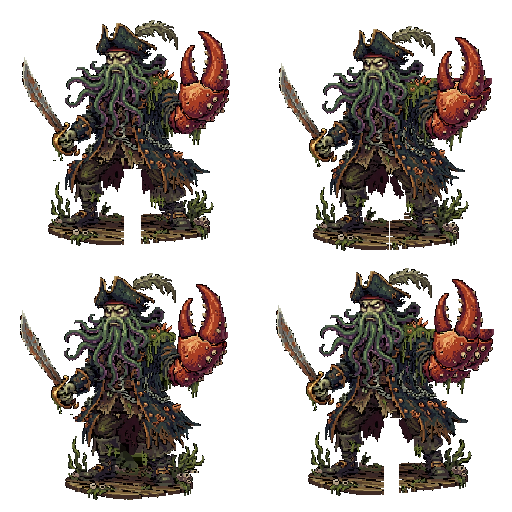
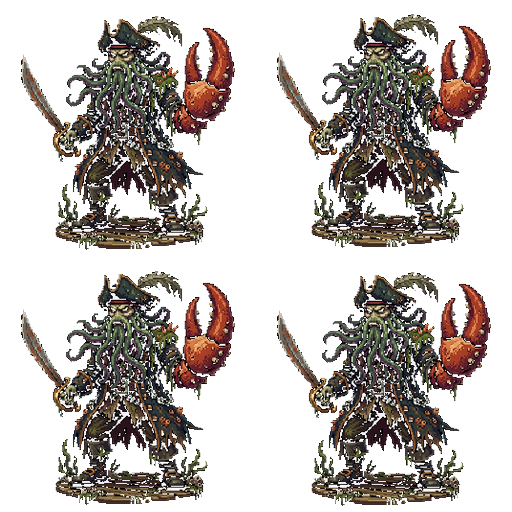
fix(bosses): restaurar y limpiar assets de bosses con siluetas solidas sin cortes artificiales

diff --git a/test/features/progression/progression_screen_test.dart b/test/features/progression/progression_screen_test.dart
@@ -50,12 +50,11 @@ void main() {
       );
       await tester.pumpAndSettle();
 
-      expect(find.text('Progresión del personaje'), findsOneWidget);
-      expect(find.text('Maestría 30/30'), findsOneWidget);
-      expect(find.textContaining('guardadas'), findsOneWidget);
-      expect(find.text('Velocidad'), findsOneWidget);
+      expect(find.text('MONEDAS'), findsWidgets);
+      expect(find.text('MAESTRÍA LVL 30'), findsOneWidget);
+      expect(find.text('VELOCIDAD'), findsOneWidget);
 
-      final firstUpgrade = find.text('Comprar por 200').first;
+      final firstUpgrade = find.text('200').first;
       await tester.ensureVisible(firstUpgrade);
       await tester.pumpAndSettle();
       await tester.tap(firstUpgrade);
@@ -63,24 +62,24 @@ void main() {
       expect(repository.upgradePurchases, 1);
       expect(find.textContaining('avanzó al rango 1'), findsOneWidget);
 
-      await tester.tap(find.text('Habilidades'));
+      await tester.tap(find.text('HABILIDADES').first);
       await tester.pumpAndSettle();
-      expect(find.text('Bala de rebote'), findsOneWidget);
+      expect(find.text('BALA DE REBOTE'), findsOneWidget);
       await tester.drag(find.byType(ListView).last, const Offset(0, -420));
       await tester.pumpAndSettle();
-      expect(find.text('Protocolo ráfaga'), findsOneWidget);
+      expect(find.text('PROTOCOLO RÁFAGA'), findsOneWidget);
       await tester.drag(find.byType(ListView).last, const Offset(0, -420));
       await tester.pumpAndSettle();
-      expect(find.text('Desenfunde'), findsOneWidget);
+      expect(find.text('DESENFUNDE'), findsOneWidget);
       await tester.drag(find.byType(ListView).last, const Offset(0, -420));
       await tester.pumpAndSettle();
-      expect(find.text('Mira oportunista'), findsOneWidget);
+      expect(find.text('MIRA OPORTUNISTA'), findsOneWidget);
 
-      await tester.tap(find.text('Paletas'));
+      await tester.tap(find.text('PALETAS').first);
       await tester.pumpAndSettle();
-      expect(find.text('Original'), findsOneWidget);
-      expect(find.text('Aurora'), findsOneWidget);
-      expect(find.text('Eclipse'), findsOneWidget);
+      expect(find.text('ORIGINAL'), findsOneWidget);
+      expect(find.text('AURORA'), findsOneWidget);
+      expect(find.text('ECLIPSE'), findsOneWidget);
     },
   );
 
@@ -125,27 +124,18 @@ void main() {
 
       // Verify no overflow occurred and elements are rendered properly
       expect(tester.takeException(), isNull);
-      expect(find.text('Progresión del personaje'), findsOneWidget);
-      expect(find.text('Maestría 30/30'), findsOneWidget);
-      expect(find.textContaining('guardadas'), findsOneWidget);
+      expect(find.text('MONEDAS'), findsWidgets);
+      expect(find.text('MAESTRÍA LVL 30'), findsOneWidget);
 
       // Verify tabs are reachable and interactive in landscape
-      expect(find.text('Mejoras'), findsOneWidget);
-      expect(find.text('Habilidades'), findsOneWidget);
-      expect(find.text('Paletas'), findsOneWidget);
+      expect(find.text('MEJORAS'), findsWidgets);
+      expect(find.text('HABILIDADES'), findsWidgets);
+      expect(find.text('PALETAS'), findsWidgets);
 
       // Test tapping tabs
-      await tester.tap(find.text('Habilidades'));
+      await tester.tap(find.text('HABILIDADES').first);
       await tester.pumpAndSettle();
-      expect(find.text('Identidad innata'), findsOneWidget);
-
-      // Test expanding summary details in compact height
-      final toggleButton = find.byTooltip('Ver detalles');
-      expect(toggleButton, findsOneWidget);
-      await tester.tap(toggleButton);
-      await tester.pumpAndSettle();
-      expect(tester.takeException(), isNull);
-      expect(find.byTooltip('Ocultar detalles'), findsOneWidget);
+      expect(find.textContaining('Habilidad innata'), findsOneWidget);
     },
   );
 }

diff --git a/lib/features/progression/presentation/progression_screen.dart b/lib/features/progression/presentation/progression_screen.dart
@@ -343,12 +343,9 @@ class _CharacterSelector extends StatelessWidget {
                 value: character,
                 child: Row(
                   children: [
-                    SizedBox(
-                      width: isCompact ? 22 : 26,
-                      height: isCompact ? 22 : 26,
-                      child: CharacterRunningSprite(
-                        assetName: character.definition.assetName,
-                      ),
+                    CharacterIcon(
+                      assetName: character.definition.assetName,
+                      size: isCompact ? 22 : 26,
                     ),
                     const SizedBox(width: 10),
                     Expanded(
@@ -788,7 +785,9 @@ class _StatsCatalog extends ConsumerWidget {
                       ),
                     ),
                     const SizedBox(height: 4),
-                    Row(
+                    Wrap(
+                      spacing: 8,
+                      runSpacing: 2,
                       children: [
                         Text(
                           'Bono actual: +${_percent(stat.effectiveBasisPoints)}',
@@ -1166,9 +1165,10 @@ class _PalettesCatalog extends ConsumerWidget {
                           ),
                       child: Padding(
                         padding: const EdgeInsets.all(8.0),
-                        child: CharacterRunningSprite(
+                        child: CharacterIcon(
                           assetName:
                               snapshot.characterId.definition.assetName,
+                          size: 54,
                         ),
                       ),
                     ),

diff --git a/test/features/leaderboard/leaderboard_screen_test.dart b/test/features/leaderboard/leaderboard_screen_test.dart
@@ -44,15 +44,15 @@ void main() {
     );
     await tester.pumpAndSettle();
 
-    expect(find.text('Leaderboard por personaje'), findsOneWidget);
+    expect(find.text('LEADERBOARD POR PERSONAJE'), findsOneWidget);
     expect(find.text('Alpha'), findsOneWidget);
     expect(find.text('777'), findsOneWidget);
 
     await tester.tap(find.text('Mi historial'));
     await tester.pumpAndSettle();
 
-    expect(find.text('Pendiente'), findsOneWidget);
-    expect(find.text('Sólo en este dispositivo'), findsOneWidget);
+    expect(find.text('PENDIENTE'), findsOneWidget);
+    expect(find.text('SÓLO EN ESTE DISPOSITIVO'), findsOneWidget);
     expect(find.textContaining('todavía no aparece'), findsOneWidget);
   });
 
@@ -96,14 +96,14 @@ void main() {
     await tester.pumpAndSettle();
 
     expect(tester.takeException(), isNull);
-    expect(find.text('Leaderboard por personaje'), findsOneWidget);
+    expect(find.text('LEADERBOARD POR PERSONAJE'), findsOneWidget);
     expect(find.text('Alpha'), findsOneWidget);
 
     await tester.tap(find.text('Mi historial'));
     await tester.pumpAndSettle();
 
     expect(tester.takeException(), isNull);
-    expect(find.text('Pendiente'), findsOneWidget);
+    expect(find.text('PENDIENTE'), findsOneWidget);
   });
 }
 

diff --git a/lib/features/campaign/presentation/campaign_screen.dart b/lib/features/campaign/presentation/campaign_screen.dart
@@ -229,13 +229,10 @@ class _CampaignScreenState extends ConsumerState<CampaignScreen> {
                                     value: character,
                                     child: Row(
                                       children: [
-                                        SizedBox(
-                                          width: isCompactHeight ? 22 : 26,
-                                          height: isCompactHeight ? 22 : 26,
-                                          child: CharacterRunningSprite(
-                                            assetName:
-                                                character.definition.assetName,
-                                          ),
+                                        CharacterIcon(
+                                          assetName:
+                                              character.definition.assetName,
+                                          size: isCompactHeight ? 22 : 26,
                                         ),
                                         const SizedBox(width: 10),
                                         Expanded(

diff --git a/lib/features/leaderboard/presentation/leaderboard_screen.dart b/lib/features/leaderboard/presentation/leaderboard_screen.dart
@@ -382,12 +382,9 @@ class _Filters extends StatelessWidget {
                     child: Row(
                       mainAxisSize: MainAxisSize.min,
                       children: [
-                        SizedBox(
-                          width: isCompact ? 20 : 24,
-                          height: isCompact ? 20 : 24,
-                          child: CharacterRunningSprite(
-                            assetName: character.definition.assetName,
-                          ),
+                        CharacterIcon(
+                          assetName: character.definition.assetName,
+                          size: isCompact ? 20 : 24,
                         ),
                         const SizedBox(width: 8),
                         Text(

diff --git a/test/features/settings/game_settings_controller_test.dart b/test/features/settings/game_settings_controller_test.dart
@@ -5,6 +5,7 @@ import 'package:flutter_test/flutter_test.dart';
 import 'package:shared_preferences/shared_preferences.dart';
 
 void main() {
+  TestWidgetsFlutterBinding.ensureInitialized();
   test(
     'audio and reduced-motion preferences persist across containers',
     () async {
